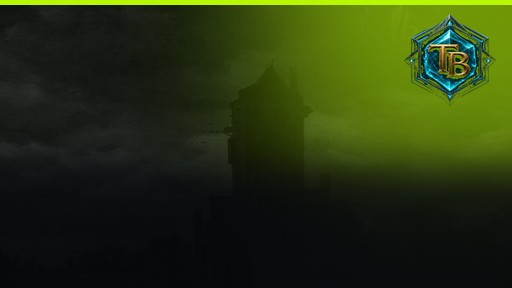
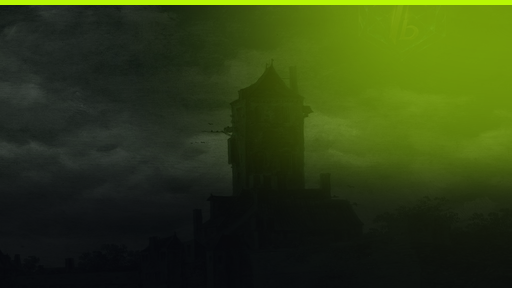
Card art: drop crest watermark, lighten art so pictures read
Crest overlay removed from generated card art (Bryan didn't want the
robot-crest badge on the pictures); brightness/color boosts make each
backdrop visible instead of a moody dark smear.

Changed region(s): [[0.7812, 0.0312, 0.9688, 0.3438], [0.7812, 0.5625, 1.0, 0.6875]]

diff --git a/images/make_cards.py b/images/make_cards.py
@@ -56,8 +56,8 @@ BACKDROP = crop_castle()
 
 for fname, title, accent, tagline in CARDS:
     card = BACKDROP.copy()
-    card = ImageEnhance.Brightness(card).enhance(0.52)   # moody dark
-    card = ImageEnhance.Color(card).enhance(0.55)       # mute the painting
+    card = ImageEnhance.Brightness(card).enhance(0.74)   # keep the picture readable
+    card = ImageEnhance.Color(card).enhance(0.85)
 
     glow = Image.new("RGB", (W, H), accent)
     mask = Image.new("L", (W, H), 0)
@@ -69,7 +69,7 @@ for fname, title, accent, tagline in CARDS:
     # bottom vignette so the title reads
     shade = Image.new("L", (W, H), 0)
     sd = ImageDraw.Draw(shade)
-    sd.rectangle((0, H - 118, W, H), fill=210)
+    sd.rectangle((0, H - 108, W, H), fill=170)
     shade = shade.filter(ImageFilter.GaussianBlur(18))
     black = Image.new("RGB", (W, H), (8, 9, 14))
     card.paste(black, (0, 0), shade)
@@ -78,11 +78,6 @@ for fname, title, accent, tagline in CARDS:
 
     # accent top bar
     d.rectangle((0, 0, W, 4), fill=accent)
-
-    # crest watermark, right side
-    crest = logo.resize((92, 92), Image.LANCZOS)
-    cr = ImageDraw.Draw(crest)
-    card.paste(crest, (W - 108, 14), crest)
 
     # no baked text — the popup overlays the (editable) script name itself;
     # baked titles collided with that overlay on both renders
